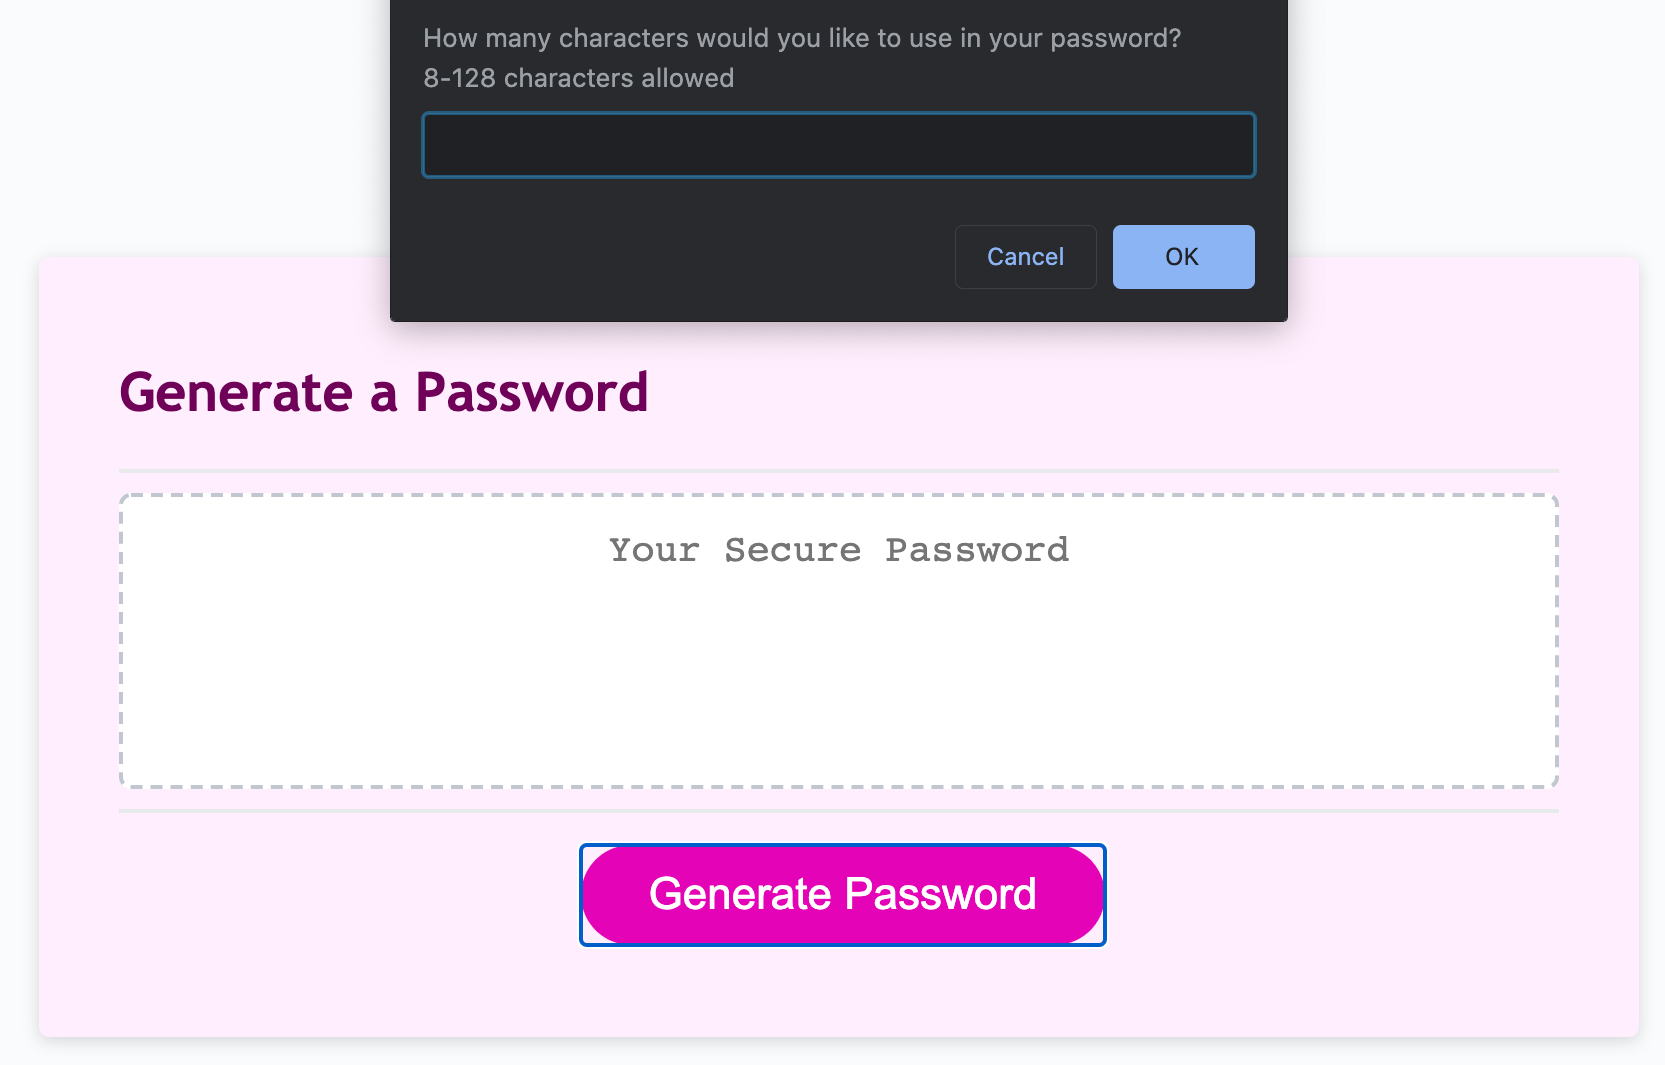
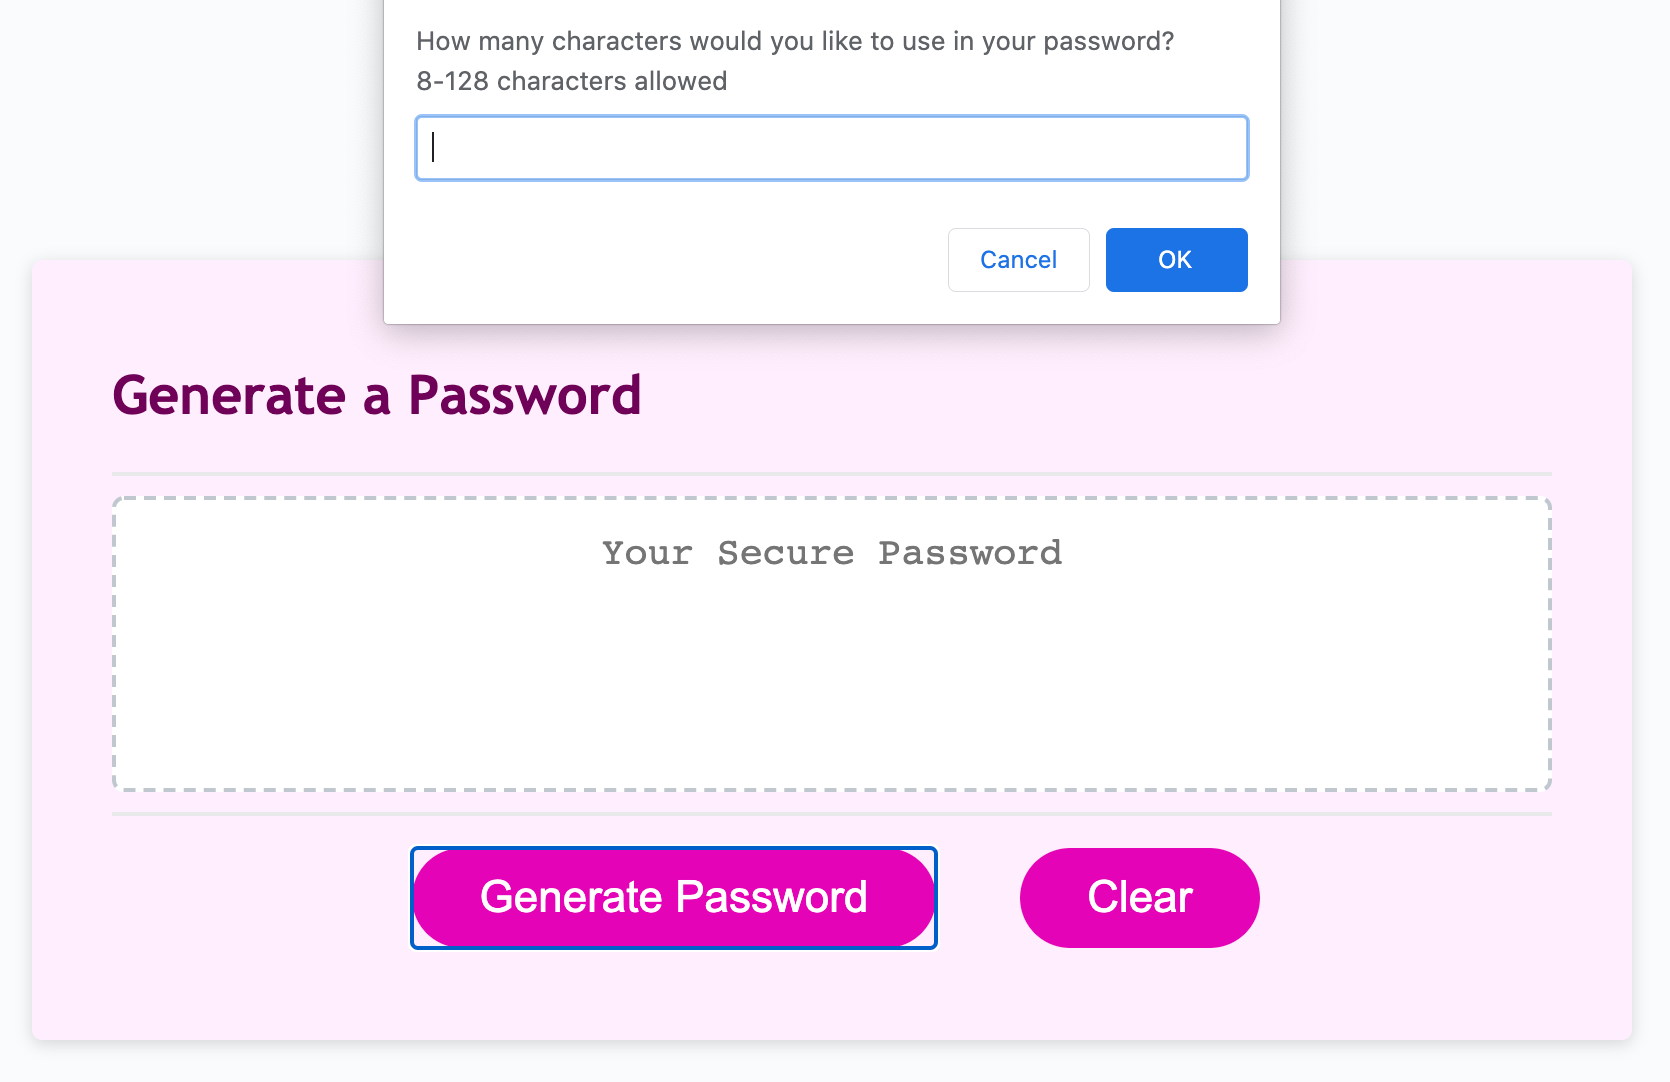
added non number argument to while loop

diff --git a/script.js b/script.js
@@ -68,15 +68,15 @@ var passwordLength = 0;
 var generateMe = document.getElementById("generate");
 
 generateMe.addEventListener("click", function () {
-  var passwordLength = prompt(
-    "How many characters would you like to use in your password? 8-128 characters allowed"
-  );
+  var passwordLength = prompt("How many characters would you like to use in your password? 8-128 characters allowed");
 
-  while (passwordLength < 8 || passwordLength > 128) {
+
+  while (passwordLength < 8 || passwordLength > 128 || isNaN(passwordLength))
+
+     {
     alert("Please choose a number between 8 and 128");
     var passwordLength = prompt(
-      "How many characters would you like to use in your password? 8-128 characters allowed"
-    );
+      "How many characters would you like to use in your password? 8-128 characters allowed");
   }
 
   // user choices will be recorded here in new arrays

diff --git a/readme.md b/readme.md
@@ -1,8 +1,8 @@
-**pushing button begins program**
+**pushing generate button begins program**
 
 **User chooses number of characters**
 1. user is prompted for a number between 8-128, the number of characters allowed in password
-1. made possible with while loop, user will not be able to move forward until they choose a number between 8 and 28
+1. while loop - if user inputs a value that is less than 8, greater than 128, or is not a number, user will be prompted to input again
 
 **User chooses password characters**
 1. characters are organized into 4 separate arrays, with each set to be (or not to be) pushed into a new array depending on what user chooses
@@ -12,6 +12,8 @@
 1. random characters generated are placed into a new array
 1. .join used so that new password array doesn't appear as separate strings, but as one set of characters that is easy to copy and paste
 1. password appears in window above button
+
+**pushing clear button clears window with written password**
 
 ![password generator](Assets/pwGenerator.png)
 ![first prompt](Assets/prompt.png)
